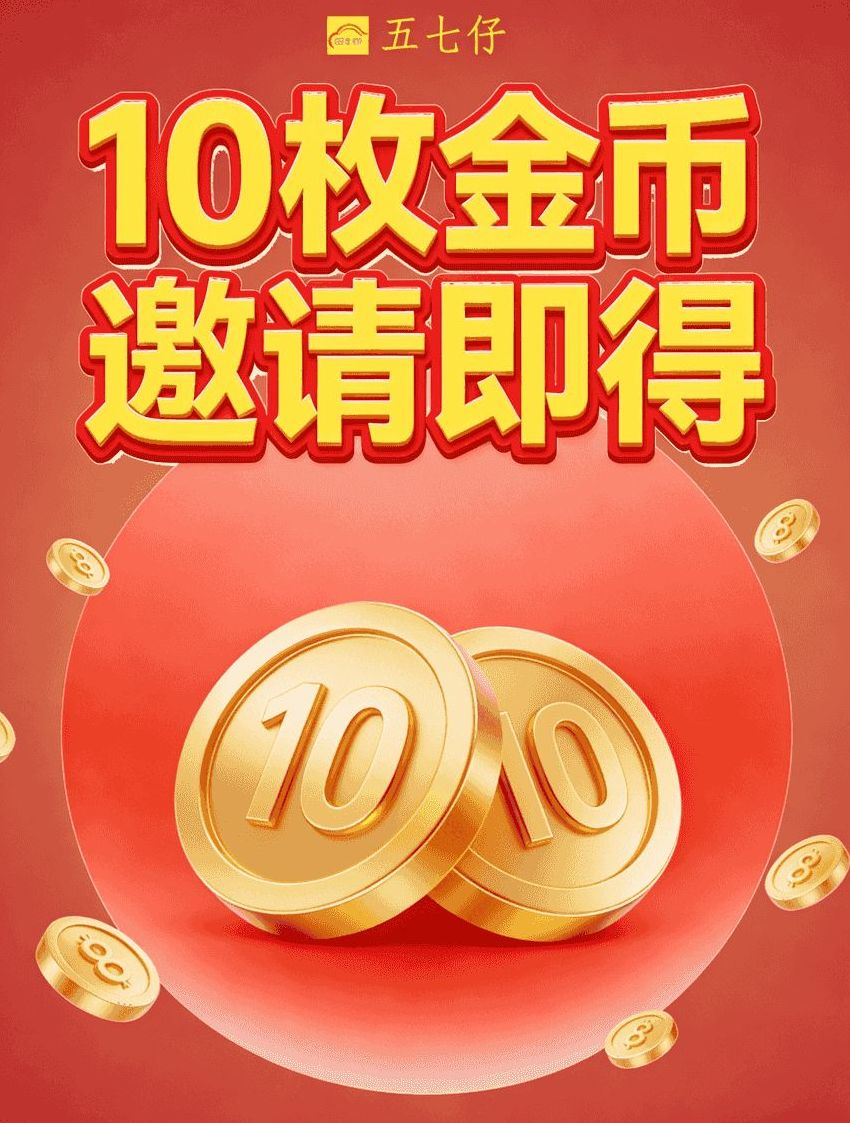
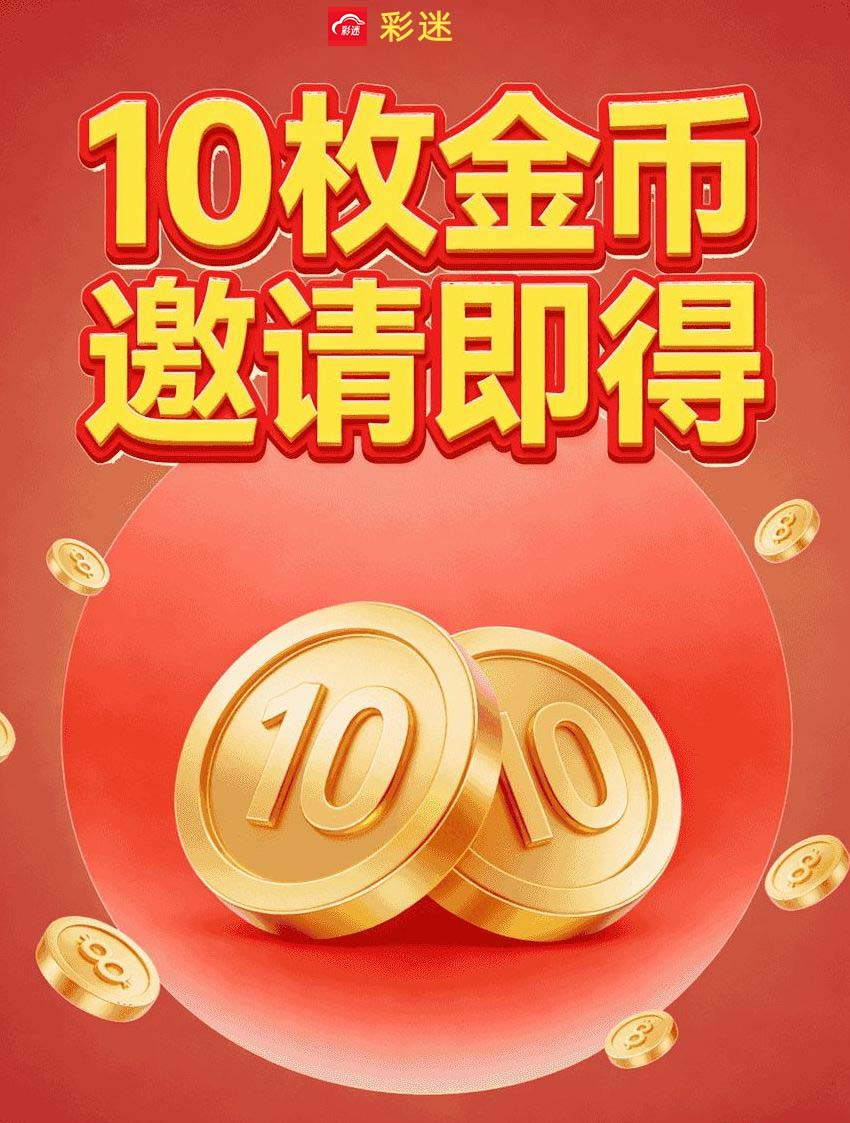
feat 分享与运营配置调整
- 分享类型统一改为 text / image，教程分享换用本地 share-manual.jpg
- 官网地址 57zi.com 改为 demo.caimizm.com，下载包地址更新
- 暂时关闭充值入口（Payment-wrapper）
- 帖子详情隐藏底部操作栏与评论列表
- 版本号 2.0.1 -> 2.0.3，更新 logo / 活动背景图

Changed region(s): [[0.3671, 0.0, 0.6118, 0.0623]]

diff --git a/pages/share/components/Share-popup.vue b/pages/share/components/Share-popup.vue
@@ -35,6 +35,7 @@
 
 <script setup>
 import { ref } from "vue";
+import shareManualPng from "/static/images/share-manual.jpg"
 
 const share = ref(null);
 
@@ -42,7 +43,8 @@ const share = ref(null);
 const shareType = ref("link");
 const open = (type) => {
   shareType.value = type;
-  share.value.open();
+  shareWx()
+  // share.value.open();
 };
 defineExpose({
   open,
@@ -52,7 +54,7 @@ function getConfig() {
   if (shareType.value === "link") {
     return {
       provider: "weixin",
-      type: 1,
+      type: "text", //1,
       title: "http://demo-dow.caimizm.com/",
       summary: "http://demo-dow.caimizm.com/",
       href: "http://demo-dow.caimizm.com/"
@@ -60,14 +62,14 @@ function getConfig() {
   } else if (shareType.value === "rqcode") {
     return {
       provider: "weixin",
-      type: 2,
+      type: "image",//2,
       imageUrl: "/static/dowRqcode.png",
     };
   } else if (shareType.value === "jiaocheng") {
     return {
       provider: "weixin",
-      type: 2,
-      imageUrl: "http://video.caimizm.com/app-config/filelPpMHlLYNi5l.png",
+      type: "image", //2,
+      imageUrl: shareManualPng,
     };
   }
 }

diff --git a/pages/activity-page/activity-page.vue b/pages/activity-page/activity-page.vue
@@ -143,6 +143,7 @@ export default {
         success: (res) => {
 
           uni.shareWithSystem({
+            type: "text",
             summary: "内含排列三排列五，福彩3D开奖+大师预测，抓局画规分享",
             href: getConfig(this.userInfo.nickname, this.inviteCode).summary,
             success() {
@@ -167,6 +168,7 @@ export default {
         showCancel: false,
         success: (res) => {
           uni.shareWithSystem({
+            type: "text",
             summary: "内含排列三排列五，福彩3D开奖+大师预测，抓局画规分享",
             href: getConfig(this.userInfo.nickname, this.inviteCode).summary,
             success() {

diff --git a/static/dowapp.html b/static/dowapp.html
@@ -234,8 +234,8 @@
     </div>
     <!-- <a style="display: none;" id="dow_a_el" href="https://demo.xn--tctu50co66a.top/filehXIjhcmS3hMH.apk"
         download="https://demo.xn--tctu50co66a.top/filehXIjhcmS3hMH.apk"></a> -->
-    <a style="display: none;" id="dow_a_el" href="http://video.caimizm.com/app-config/fileWHvFG27MBqWO.apk"
-        download="http://video.caimizm.com/app-config/fileWHvFG27MBqWO.apk"></a>
+    <a style="display: none;" id="dow_a_el" href="http://video.caimizm.com/app-config/filepaEi103zrJPl.apk"
+        download="http://video.caimizm.com/app-config/filepaEi103zrJPl.apk"></a>
 
     <script>
         // 处理 iOS Safari 底部安全区域

diff --git a/pages/forum/post/detail.vue b/pages/forum/post/detail.vue
@@ -50,7 +50,7 @@
       </view>
 
       <!-- 帖子底部操作 -->
-      <view class="post-footer">
+      <!-- <view class="post-footer">
         <view
           class="action-item"
           :class="{ 'liked-disabled': post.isLiked }"
@@ -71,7 +71,7 @@
           <uni-icons type="plus" size="18" color="#28B389"></uni-icons>
           <text class="count">追帖</text>
         </view>
-      </view>
+      </view> -->
     </view>
 
     <!-- 评论标题 -->
@@ -82,6 +82,7 @@
 
     <!-- 评论列表 -->
     <scroll-view
+    v-if="false"
       class="comment-list"
       scroll-y
       :refresher-enabled="true"

diff --git a/pages/share/share.vue b/pages/share/share.vue
@@ -53,8 +53,8 @@
           <view style="width: 600rpx">
             <uni-link
               class="link"
-              href="http://57zi.com/"
-              text="官网地址：http://57zi.com"
+              href="http://demo.caimizm.com/"
+              text="官网地址：http://demo.caimizm.com"
             ></uni-link>
           </view>
         </view>
@@ -83,7 +83,7 @@ function share(type) {
   sharePopupRef.value.open(type);
 }
 function copyLink() {
-  let txt = "http://57zi.com/";
+  let txt = "http://demo.caimizm.com/";
   uni.setClipboardData({
     data: txt,
     success: function () {

diff --git a/components/Payment-wrapper/Payment-wrapper.vue b/components/Payment-wrapper/Payment-wrapper.vue
@@ -95,10 +95,17 @@ export default {
         // 积分支付
         this.createOrder(data);
       } else {
-        this.$refs.payMethodSelectorRef.openPayModal(data);
+        uni.showModal({
+          content: "当前暂时无法充值"
+        })
+        // this.$refs.payMethodSelectorRef.openPayModal(data);
       }
     },
     confirmPayMethod(payMethod) {
+      uni.showModal({
+          content: "当前暂时无法充值"
+        })
+        return
       console.log("payMethod:", payMethod);
       const payType = {
         integral: 1,

diff --git a/pages/zc/index.vue b/pages/zc/index.vue
@@ -322,7 +322,7 @@ const onHoverClick = () => {
       success: (res) => {
         uni.shareWithSystem({
           provider: "weixin",
-          type: 1,
+          type: "text",
           href: createShareUrl(),
           summary: createShareUrl(),
           scene: "WXSceneSession",
